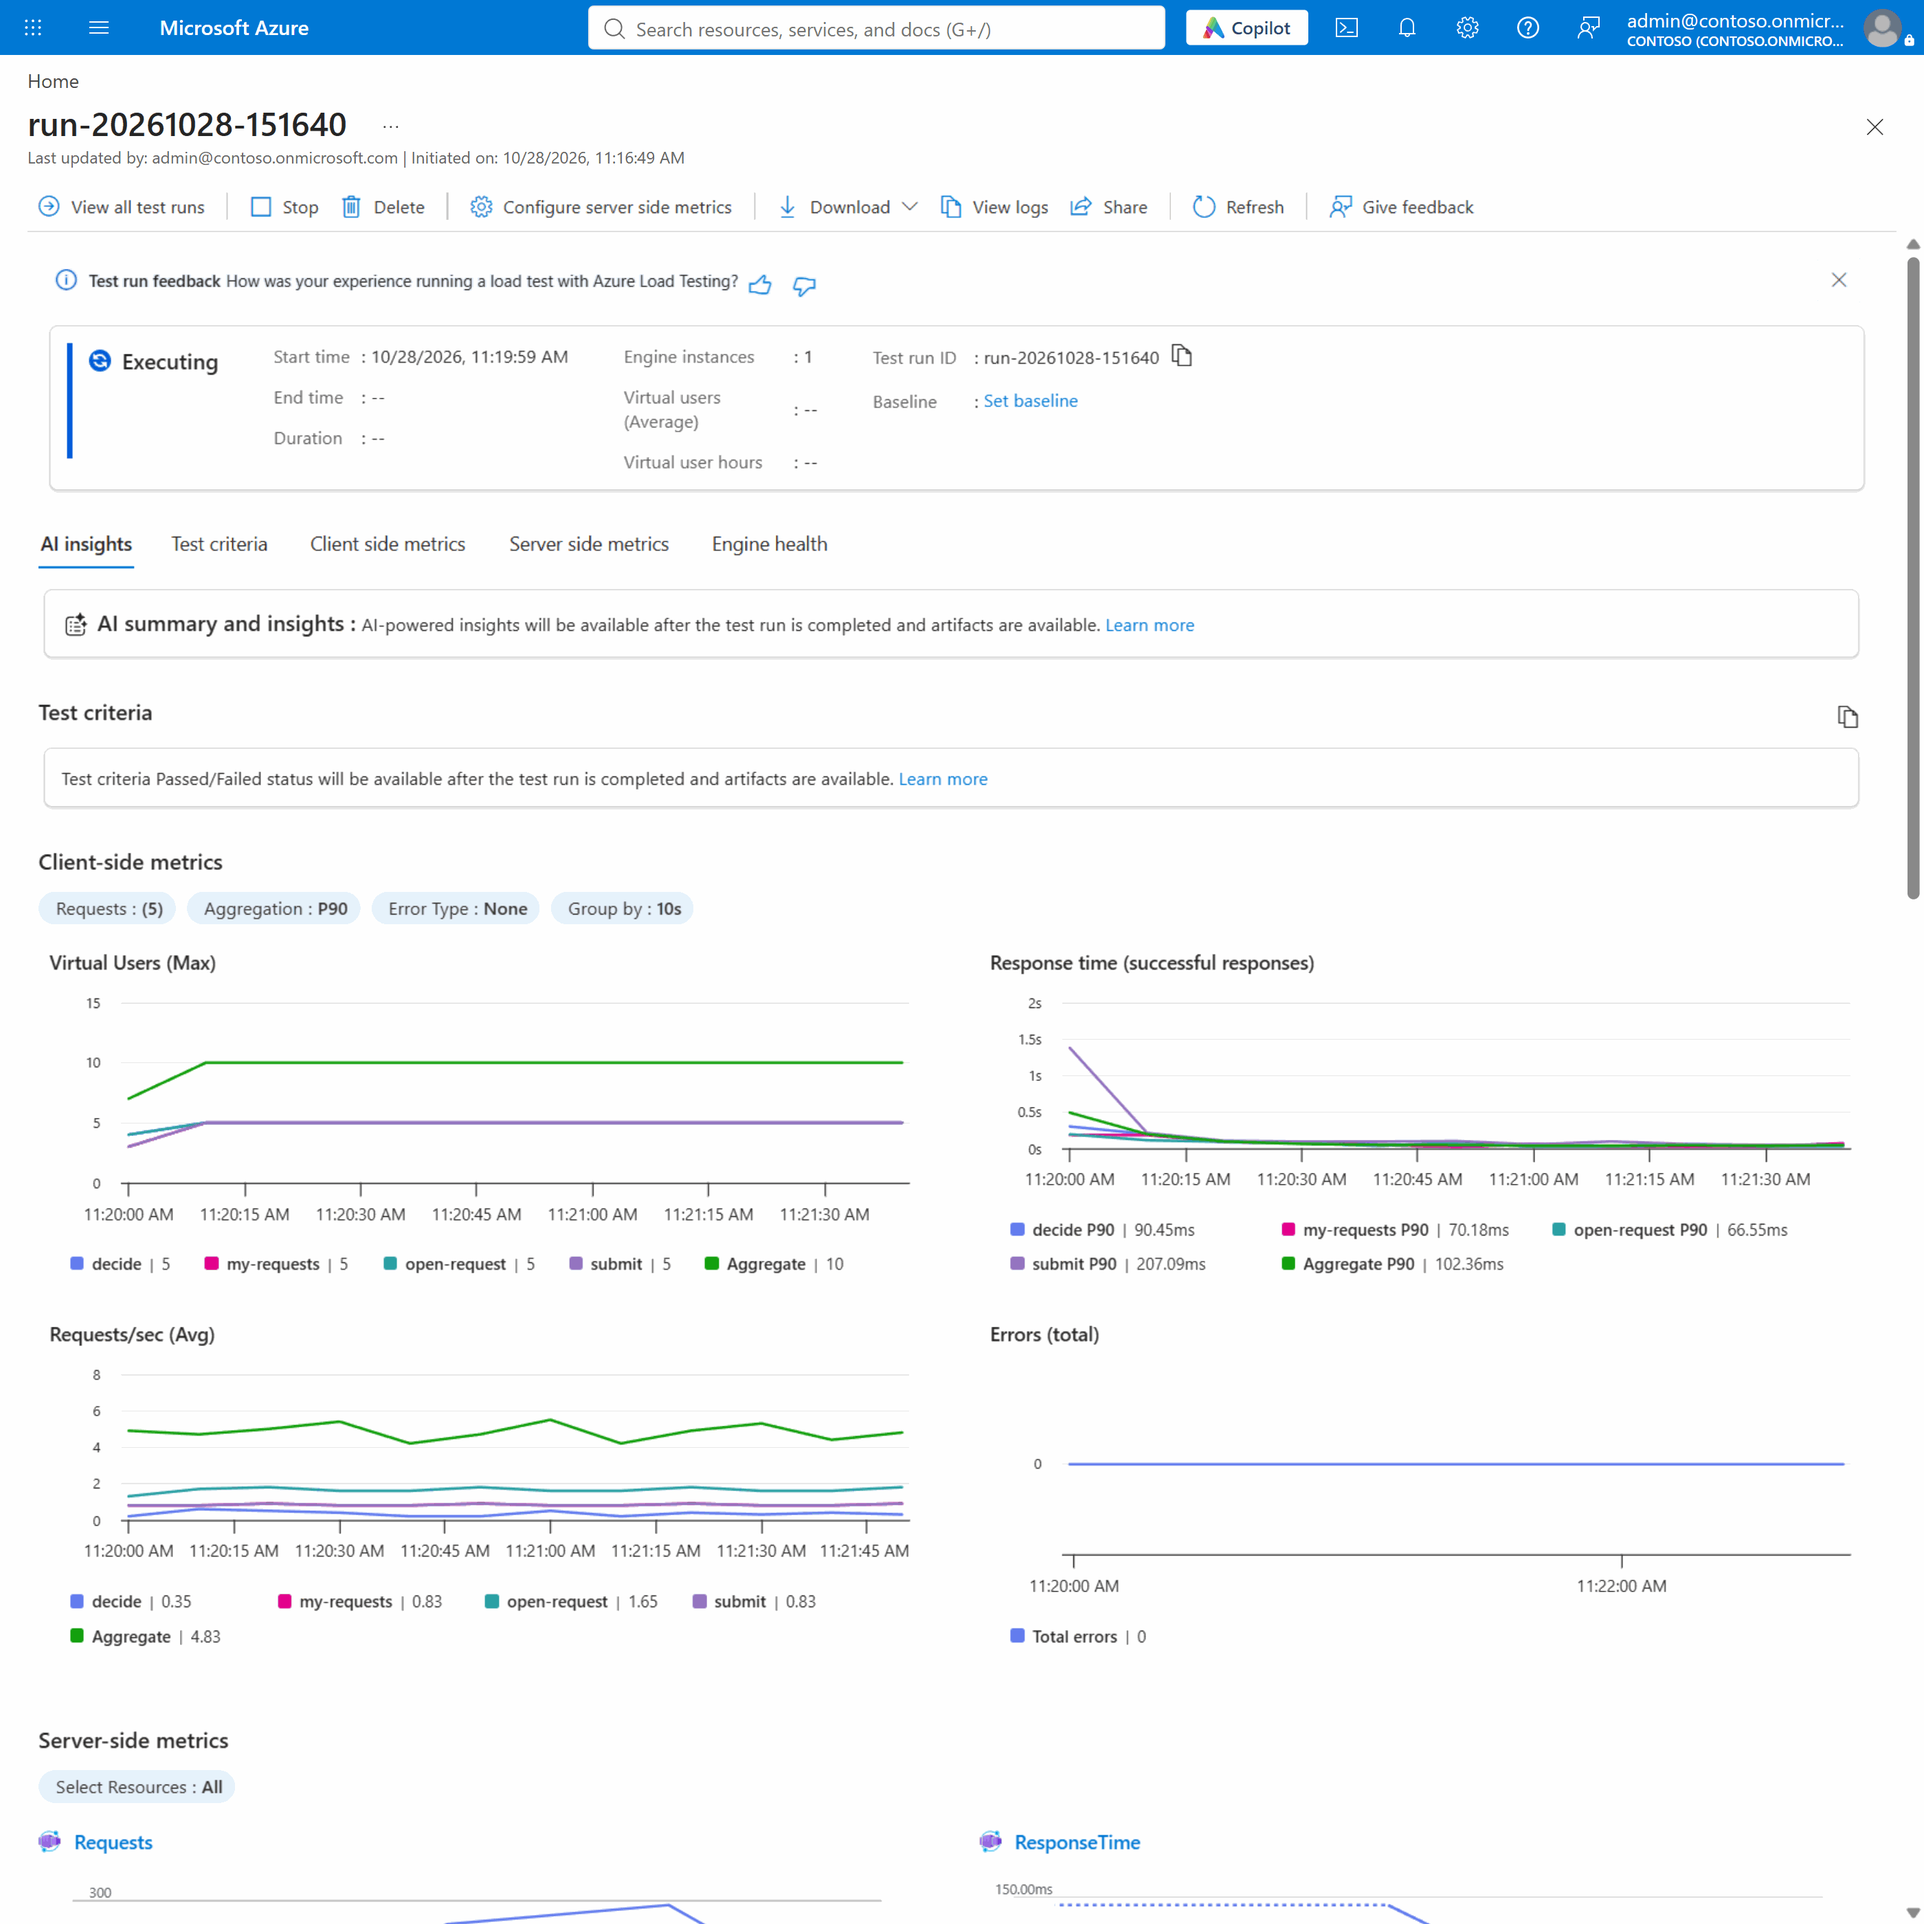
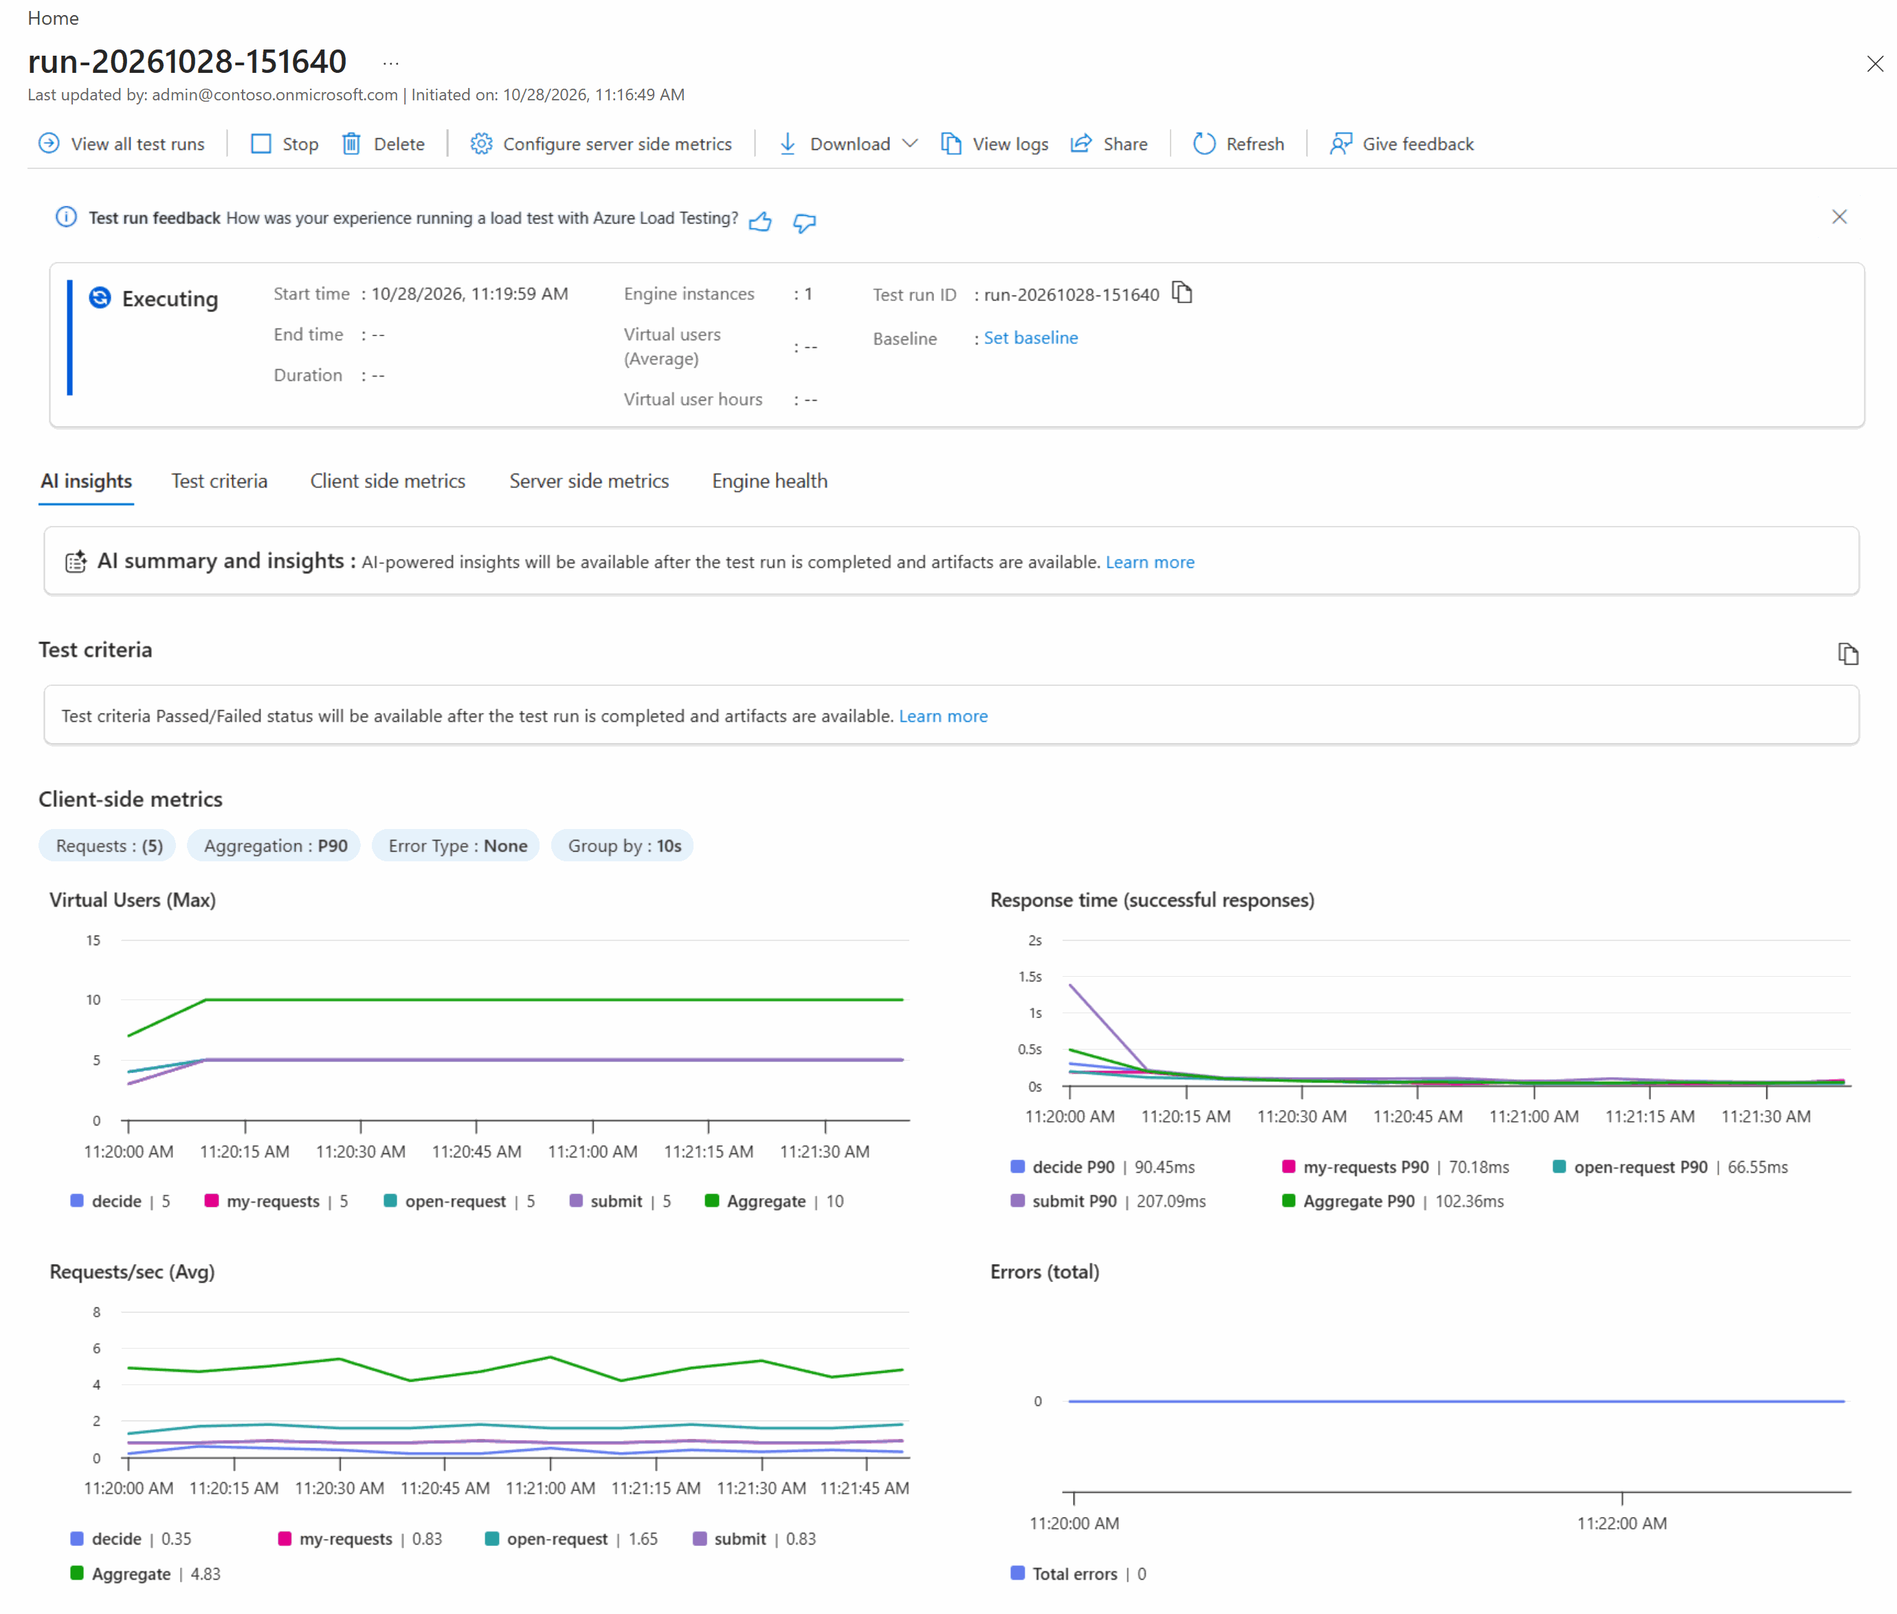
04-test-microsoft: review fixes for the live dashboard image, the run message, and two Point out lines
Trims the portal's top bar and scrollbar from 02-live-dashboard.png, prints the configured load duration instead of the literal LOCUST_RUN_TIME, and points the step 5 and step 6 notes at what the screenshots show.

diff --git a/solutions/04-test-microsoft/load_test.py b/solutions/04-test-microsoft/load_test.py
@@ -159,6 +159,8 @@ def render_config(users: int | None = None, duration: int | None = None) -> Path
 def run_test(args) -> str:
     """Create or update the test from the rendered configuration, start a run, and wait until it finishes."""
     path = render_config(args.users, args.duration)
+    load_seconds = next((item["value"] for item in yaml.safe_load(path.read_text(encoding="utf-8")).get("env", [])
+                         if item["name"] == "LOCUST_RUN_TIME"), "?")
     resource, group = setting("LOAD_TEST_NAME"), setting("AZURE_RESOURCE_GROUP")
     test_id = yaml.safe_load(TEMPLATE.read_text(encoding="utf-8"))["testId"]
     common = ["--load-test-resource", resource, "--resource-group", group, "--test-id", test_id]
@@ -175,7 +177,7 @@ def run_test(args) -> str:
     description = args.description or "Started from a terminal with load_test.py"
     az("load", "test-run", "create", *common, "--test-run-id", run_id, "--display-name", run_id,
        "--description", description, "--no-wait", parse=False)
-    print(f"Started test run {run_id}. Engines take a few minutes to start; the run itself lasts LOCUST_RUN_TIME seconds.")
+    print(f"Started test run {run_id}. Engines take a few minutes to start, then the load runs for {load_seconds} seconds.")
 
     started, status, opened = time.monotonic(), "", not args.open
     while status not in TERMINAL:

diff --git a/solutions/04-test-microsoft/README.md b/solutions/04-test-microsoft/README.md
@@ -215,7 +215,7 @@ The workflow also opens an Issue labelled `load-test`, with the same report and 
 
 ![Issue 122, opened by github-actions with the load-test label: the run missed its performance criteria, with the criteria table. It shows Done because the passing run in step 7 closed it](images/05-issue.png)
 
-**Point out:** the report proves the cause. Every `GET /api/requests` in Application Insights carried the injected delay (150 of 150), so the run is labelled an expected failure, not acceptance.
+**Point out:** the report names the cause. Its first lines say 150 server requests carried the injected delay, and the server-side table further down the job summary shows that's every `GET /api/requests`. So the run is labelled an expected failure, not acceptance.
 
 ### 6. Read the failure in Azure Load Testing
 
@@ -242,7 +242,7 @@ Scroll down for the client-side and server-side metrics of the same window.
 
 The criteria and the metrics agree: only the two list requests are slow, the rest of the journey stays fast, and the server-side durations show the time is spent inside the API.
 
-**Point out:** the AI summary is a lead, not a verdict; check each claim against the charts. "Peak 5 VUs" counts the users per request, while the run had 10 in total. The "failed HTTP requests" are the journey's deliberate 403 checks: Application Insights counts them as failed, and the report lists them as denied, next to 0 server errors and 0% client errors.
+**Point out:** the AI summary is a lead, not a verdict; check each claim against the dashboard. "Peak 5 VUs" counts the users behind a single request (5 requesters or 5 approvers); the header shows 10 virtual users in total. The "failed HTTP requests" are the journey's deliberate 403 checks: Application Insights counts a 403 as failed, while the error percentage here is 0%, and the server-side table further down the step 5 job summary lists them under Denied (401/403), with 0 server errors.
 
 ### 7. Fix and confirm
 
